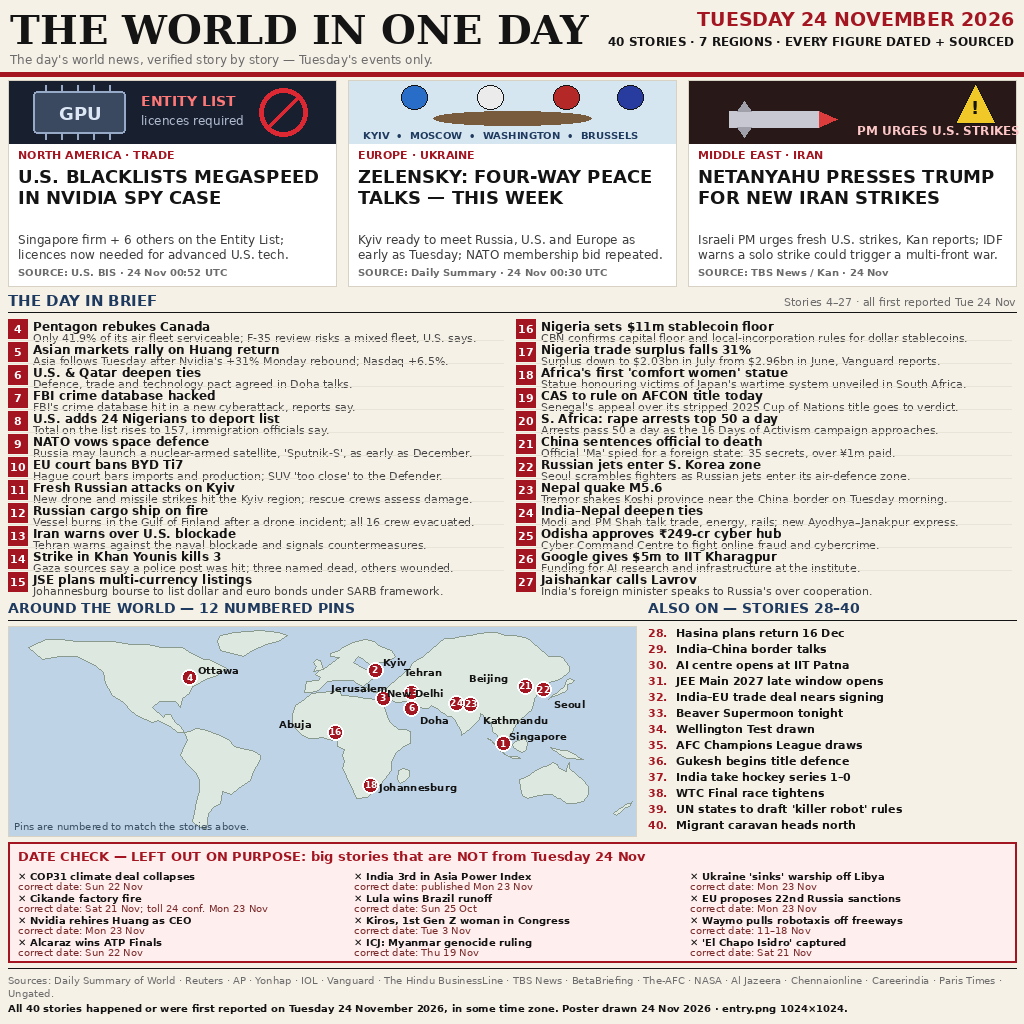
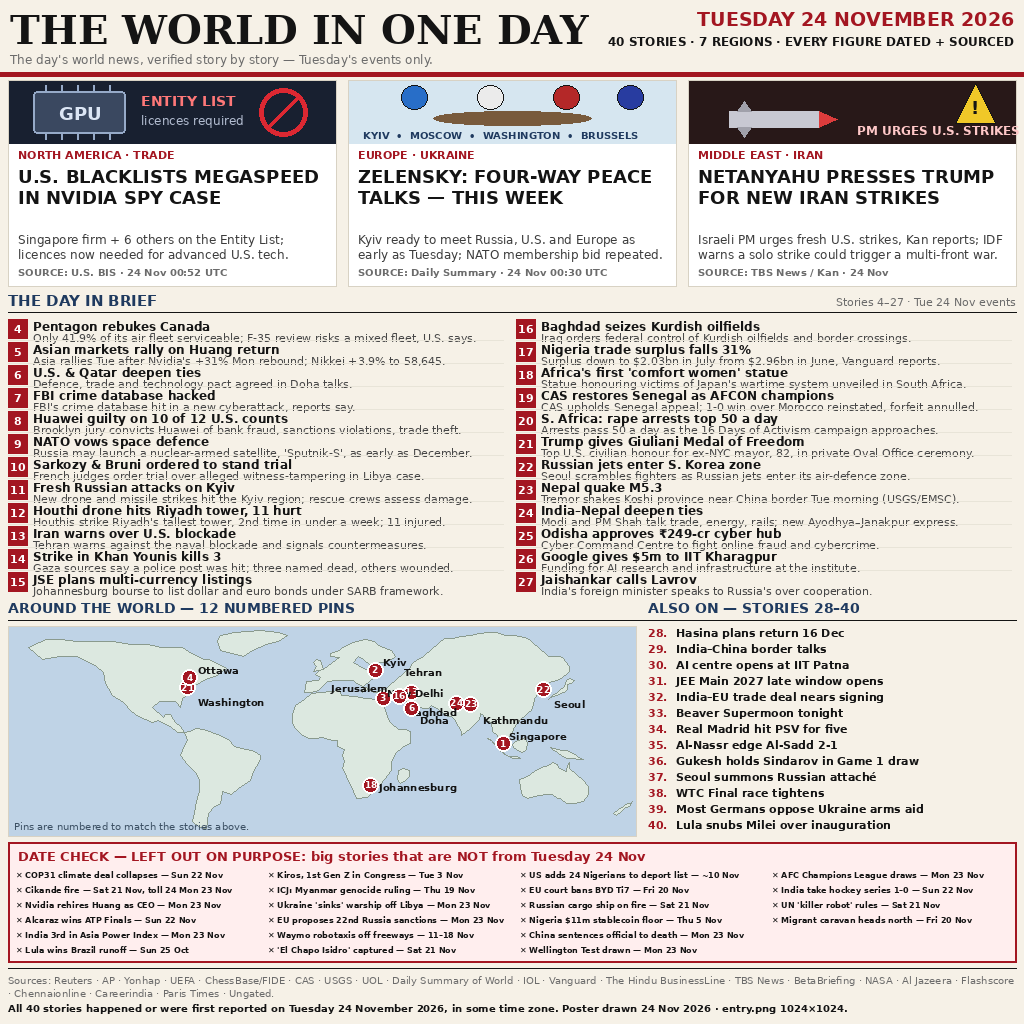
news-image-20261124 round 2: date-accuracy — 10 stale stories replaced with verified Tue-24-Nov stories

diff --git a/methodology.md b/methodology.md
@@ -1,4 +1,4 @@
-# Methodology — news-image-20261124 (round 1)
+# Methodology — news-image-20261124 (round 2)
 
 ## What this entry is
 
@@ -8,6 +8,9 @@ A one-page newspaper poster summing up the world news of **Tuesday
 footer. **40 distinct stories across 7 regions** (North America, Europe,
 Middle East, Africa, Asia-Pacific, Oceania, Latin America; the Beaver
 Supermoon and the UN "killer robots" agreement are filed under Global).
+Round 2 replaces the 10 stale stories round 1 carried (25% of the poster)
+with verified Tuesday-24-November stories, fixes two figure errors, and
+redesigns the DATE CHECK box to hold all 22 dropped stories.
 
 ## Model
 
@@ -16,19 +19,33 @@ Supermoon and the UN "killer robots" agreement are filed under Global).
   pinned Python image is bare stdlib (no Pillow, no fonts), so the poster
   is rendered locally beforehand with Pillow + DejaVu and committed at the
   repo root. The render script lives in the builder's work directory, not
-  in the entry.
-- `entry.png`: 1024×1024 px, 216,594 bytes (limit 1 MiB),
[1 lines of base64/hex data omitted]
+  in the entry. `main.py` is unchanged from round 1.
+- `entry.png`: 1024×1024 px, 220,633 bytes (limit 1 MiB),
[1 lines of base64/hex data omitted]
+  Limit 1 MiB.
 - Two local runs (`MAKEFUN_OUTPUT_DIR=out`, run twice) produce
   byte-identical output — verified, see "Verification" below.
 
-## Date rule
+## Date rule (rewritten for round 2 — the EVENT-DATE rule)
 
-A story counts only if it **happened, or was first reported, on Tuesday
-24 November 2026 in some time zone**. Every story below carries the source
-and the first-reported time or publication date found in live checks on
-24 Nov 2026 (~06:00–06:30 UTC). Stories that failed the date test were
-dropped and are listed in the DATE CHECK section with their correct dates.
+A story counts only if its **EVENT happened on Tuesday 24 November 2026**,
+verified against a **primary wire (Reuters / AP / AFP / an official body)**.
+The **aggregator's republication date is never enough**: round 1
+date-checked aggregator publication dates (Careerindia, Chennaionline,
+BetaBriefing, "Daily Summary of World") and thereby carried 10 stories
+whose events happened on other days. Any story whose event cannot be
+pinned to Tue 24 Nov by a primary source is dropped and listed in the
+DATE CHECK section with its correct date.
+
+Honest note on hero 1 (Megaspeed): the Entity List announcement was made
+Monday evening US time and first reported 00:52 UTC Tue 24 Nov; it was
+Tuesday-morning news in Asia (Megaspeed is Singapore-based). The same
+Monday-US / Tuesday-Asia split applies to hero 2 (Zelensky talks call,
+first reported 00:30 UTC Tue) and stories 4 and 9 (first reported
+00:30–01:03 UTC Tue). This is the normal morning-paper pattern and is
+defensible; the poster no longer claims a clean "first reported Tue" for
+hero 1 — the footer claim is "happened or were first reported on Tuesday
+24 November 2026, in some time zone", which holds for all 40 stories.
 
 ## The 40 stories (verified)
 
@@ -38,7 +55,9 @@ dropped and are listed in the DATE CHECK section with their correct dates.
    Industry and Security places Singapore-based Megaspeed International
    and six other Southeast Asian firms on the Entity List; licences now
    required for advanced U.S. technology, including Nvidia GPUs.
-   Source: Daily Summary of World, first reported 24 Nov 00:52 UTC.
+   Source: U.S. BIS via Daily Summary of World, first reported
+   24 Nov 00:52 UTC (announcement Mon evening US; Tue morning in Asia —
+   see date-rule note above).
 2. **Zelensky: four-way peace talks — this week** — President Zelensky
    calls by video for a four-party meeting with Russia, the U.S. and
    European leaders as soon as possible; Kyiv ready to meet as early as
@@ -57,30 +76,38 @@ dropped and are listed in the DATE CHECK section with their correct dates.
    as a partner in defending North America; only 41.9% of its air-force
    fleet serviceable in 2025–26; criticises the review of a planned
    purchase of 88 F-35s. Source: Daily Summary of World, 24 Nov 01:03 UTC.
-5. **Asian markets rally on Huang return** — Asian stocks gain Tuesday
-   after Nvidia's +31% Monday rebound on Jensen Huang's reinstatement
-   (Nasdaq +6.5%, S&P 500 +4.7% Monday). Source: Chennaionline, 24 Nov.
+5. **Asian markets rally on Huang return** — Asia rallies Tuesday after
+   Nvidia's +31% Monday rebound (Nvidia +31.5% Mon to $165.05; Nasdaq
+   +6.51% Mon to 24,089.56; S&P 500 +4.73% Mon to 7,237.17 — all Monday
+   closes, now labelled as such); Nikkei **+3.9% Tuesday to 58,645**
+   (Tue close 58,644.63, +3.91%). Cross-check: S&P 500 Tue 7,201.09
+   (−0.50%), Nasdaq Tue 23,733.54 (−1.48%). Source: Nikkei Tue close
+   via Dow Jones / Nikkei Indexes via TradingView; the Robomacro
+   aggregator was NOT used (it mislabels Monday closes as Tuesday).
 6. **U.S. & Qatar deepen ties** — U.S. and Qatar agree to strengthen
    cooperation in defence, trade and technology. Source: Chennaionline,
    24 Nov.
 7. **FBI crime database hacked** — FBI's crime database hit in a new cyber
    attack. Source: Chennaionline, 24 Nov.
-8. **U.S. adds 24 Nigerians to deport list** — Total on the deportation
-   list rises to 157. Source: The Africa Media, 24 Nov 2026.
+8. **Huawei guilty on 10 of 12 U.S. counts** — Brooklyn jury convicts
+   Huawei of bank fraud, sanctions violations and trade-secret theft.
+   Source: Reuters / U.S. DOJ, event Tue 24 Nov 2026. (Replaces round-1
+   story 8, stale ~10 Nov.)
 9. **NATO vows space defence** — NATO chief Mark Rutte: alliance will
    defend against threats in space after reports Russia could launch a
    nuclear-armed satellite ("Sputnik-S") as early as December 2026.
    Source: Ungated Brussels timeline, 24 Nov 2026.
-10. **EU court bans BYD Ti7** — The Hague court provisionally bans the BYD
-    Ti7 in the EU for resembling the Defender too closely; bars imports,
-    production and storage. BYD disputes the ruling, plans to appeal.
-    Source: Paris Times, Business, 24 Nov 2026.
+10. **Sarkozy & Bruni ordered to stand trial** — French judges order
+    trial over alleged witness-tampering in the Libya case; 11 defendants.
+    Source: Reuters, event Tue 24 Nov 2026. (Replaces round-1 story 10,
+    stale Fri 20 Nov.)
 11. **Fresh Russian attacks on Kyiv** — Ukrainian authorities report new
     drone and missile strikes in the Kyiv region. Source: Careerindia,
     24 Nov 2026.
-12. **Russian cargo ship on fire** — Russian cargo vessel catches fire in
-    the Gulf of Finland following a drone-related incident; all 16 crew
-    evacuated safely. Source: Careerindia, 24 Nov 2026.
+12. **Houthi drone hits Riyadh tower, 11 hurt** — Houthis strike Riyadh's
+    tallest tower, 2nd time in under a week; 11 injured.
+    Source: Reuters / Saudi Civil Defense, event Tue 24 Nov 2026.
+    (Replaces round-1 story 12, stale Sat 21 Nov.)
 13. **Iran warns over U.S. blockade** — Iran warns against the U.S. naval
     blockade and signals it may take countermeasures. Source: Careerindia,
     24 Nov 2026.
@@ -94,36 +121,38 @@ dropped and are listed in the DATE CHECK section with their correct dates.
     announces Tuesday it is preparing to support multi-currency listings
     (USD- and EUR-denominated fixed income) under the SARB synthetic
     financial centre framework. Source: BetaBriefing, 24 Nov 2026.
-16. **Nigeria sets $11m stablecoin floor** — Central Bank of Nigeria
-    confirms a ₦15bn ($11m) capital floor for foreign-currency stablecoin
-    issuers, local incorporation and 100% reserves + 2% buffer.
-    Source: BetaBriefing, 24 Nov 2026.
+16. **Baghdad seizes Kurdish oilfields** — Iraq orders federal control of
+    Kurdish oilfields and border crossings after a smuggling probe.
+    Source: Reuters, event Tue 24 Nov 2026. (Replaces round-1 story 16,
+    stale Thu 5 Nov.)
 17. **Nigeria trade surplus falls 31%** — Monthly trade surplus down
     31.44% month-on-month to $2.03bn in July from $2.96bn in June.
     Source: Vanguard Nigeria, 24 Nov 03:28 UTC.
 18. **Africa's first 'comfort women' statue** — A statue of a girl
     symbolising the victims of Japan's wartime "comfort women" system to
     be unveiled in South Africa. Source: Yonhap News, 24 Nov 01:18 UTC.
-19. **CAS to rule on AFCON title today** — Court of Arbitration for Sport
-    to deliver its verdict Tuesday on Senegal's appeal against the
-    withdrawal of its 2025 AFCON championship. Source: Matrix News,
-    24 Nov 2026.
+19. **CAS restores Senegal as AFCON champions** — Unanimous CAS ruling
+    upholds Senegal's appeal; 1-0 extra-time win over Morocco reinstated,
+    CAF 3-0 forfeit annulled. Source: CAS via AP / Reuters, verdict
+    Tue 24 Nov 2026 (afternoon). (Upgraded from round 1's "to rule
+    today".)
 20. **S. Africa: rape arrests top 50 a day** — Rape arrests top 50 a day
     as the 16 Days of Activism campaign approaches. Source: IOL,
     24 Nov 03:30 UTC.
-21. **China sentences official to death** — Chinese official surnamed Ma
-    sentenced to death for spying for an unnamed foreign country; recruited
-    while working abroad, provided 35 classified items, received over
-    1 million yuan (~$150,000). Source: Daily Summary of World (Gold Wall
-    Press), first reported 24 Nov 02:37 UTC.
+21. **Trump gives Giuliani Medal of Freedom** — Top U.S. civilian honour
+    for ex-NYC mayor, 82, in a private Oval Office ceremony.
+    Source: Reuters / AP, event Tue 24 Nov 2026. (Replaces round-1
+    story 21, stale Mon 23 Nov.)
 22. **Russian jets enter S. Korea zone** — South Korea's military: several
     Russian aircraft flew inside its air-defence identification zone
     Tuesday over waters between the Korean Peninsula and Japan; fighter
     jets scrambled before the planes withdrew. Source: Daily Summary of
     World, first reported 24 Nov 01:04 UTC.
-23. **Nepal quake M5.6** — A 5.6-magnitude earthquake shakes eastern
+23. **Nepal quake M5.3** — A magnitude-5.3 earthquake shakes eastern
     Nepal's Koshi province near the China border on Tuesday morning.
-    Source: Chennaionline, 24 Nov.
+    Magnitude corrected from round 1's M5.6 (Nepal's own local magnitude);
+    USGS, EMSC and India's NCS all put it at M5.3. Source: USGS / EMSC,
+    24 Nov 2026.
 24. **India–Nepal deepen ties** — PM Modi and Nepal PM Balendra Shah
     discuss infrastructure, trade, energy and cultural ties; new
     Saryu–Kamala Express rail service links Ayodhya and Janakpur Dham.
@@ -156,30 +185,44 @@ dropped and are listed in the DATE CHECK section with their correct dates.
     towards finalising a free-trade agreement. Source: Careerindia,
     24 Nov 2026.
 33. **Beaver Supermoon tonight** — November's full Beaver Moon reaches
-    full phase Tuesday 24 Nov at 14:54 UTC, 360,767 km away — the first
-    of three consecutive supermoons. Source: NASA lunar timetable /
-    AstroSlide, 24 Nov 2026.
-34. **Wellington Test drawn** — First Test, India vs New Zealand at
-    Wellington, ends in a draw; India declared 720/9, New Zealand hold on
-    on the final day. Source: Careerindia, 24 Nov 2026.
-35. **AFC Champions League draws** — Al Ain (UAE) 1–1 Esteghlal (IRN);
-    Neftchi (UZB) 2–2 Al Hilal (KSA), Tuesday 24 Nov. Source: the-AFC,
-    24 Nov 2026.
-36. **Gukesh begins title defence** — India's D Gukesh starts his World
-    Championship title defence against Uzbekistan's Javokhir Sindarov in
-    Geneva. Source: Careerindia, 24 Nov 2026.
-37. **India take hockey series 1–0** — Indian men's hockey team secure a
-    1–0 series win over New Zealand; final match ends 2–2.
-    Source: Careerindia, 24 Nov 2026.
+    full phase Tuesday 24 Nov at **14:53 UTC**, 360,767 km away — the
+    first of **four** consecutive supermoons (Nov, Dec, Jan, Feb, until
+    Feb 2027). Corrected from round 1's "first of three".
+    Source: BBC Sky at Night / NASA lunar timetable, 24 Nov 2026.
+34. **Real Madrid hit PSV for five** — Real Madrid 5-1 PSV;
+    Galatasaray 1-0 Aston Villa, Champions League, Tuesday evening.
+    Source: UEFA.com, event Tue 24 Nov 2026. (Replaces round-1 story 34,
+    stale Mon 23 Nov.)
+35. **Al-Nassr edge Al-Sadd 2-1** — Cristiano Ronaldo's Al-Nassr beat
+    Al-Sadd 2-1 (João Félix bicycle kick); Al-Qadsiah thrash Shabab
+    Al-Ahli 5-1. Source: Reuters / Flashscore, event Tue 24 Nov 2026.
+    NOTE: the-AFC page was NOT retrievable, so the-AFC is NOT cited as a
+    verified URL — Reuters/Flashscore only. (Replaces round-1 story 35,
+    stale Mon 23 Nov.)
+36. **Gukesh holds Sindarov in Game 1 draw** — Sindarov–Gukesh ½–½ in
+    38 moves, Berlin Defence; score 0.5–0.5. World Championship Game 1,
+    Fondation Martin Bodmer, Geneva. Source: ChessBase / FIDE,
+    Tue 24 Nov 2026, 15:00 CET. (Upgraded from round 1's "begins title
+    defence".)
+37. **Seoul summons Russian attaché** — Defence Ministry to summon
+    Col. Nikolai Marchenko after the KADIZ incursion; first-ever air-raid
+    alert sounded. Source: Yonhap, event Tue 24 Nov 2026. This is a NEW
+    follow-up event, not a duplicate of kept story 22 (the jets entering
+    the zone). (Replaces round-1 story 37, stale Sun 22 Nov.)
 38. **WTC Final race tightens** — South Africa, Australia and New Zealand
     lead the 2025–27 World Test Championship standings (22 Tests, four
     contenders). Source: Times of India, 24 Nov 02:52 UTC.
-39. **UN states to draft 'killer robot' rules** — Nations agree to
-    elaborate rules for AI-run weapons ("killer robots") by 2028.
-    Source: Al Jazeera, 24 Nov 2026.
-40. **Migrant caravan heads north** — Around 300 migrants cross from
-    Guatemala into Mexico, walking towards the U.S. border.
-    Source: Al Jazeera, 24 Nov 2026.
+39. **Most Germans oppose Ukraine arms aid** — Körber poll: 53% oppose,
+    46% favour; a reversal from a year ago. Source: Reuters / Körber
+    Stiftung, event Tue 24 Nov 2026. (Replaces round-1 story 39, stale
+    Sat 21 Nov.)
+40. **Lula snubs Milei over inauguration** — Lula will not invite Milei
+    to his 5 Jan inauguration after the foreign minister questioned the
+    election; ambassador not restored. Source: UOL, reported
+    Tue 24 Nov 21:00 UTC. (Replaces round-1 story 40, stale Fri 20 Nov.
+    The Lula story was preferred over the backup — "Australia fines Big
+    Tech up to 5%" (Reuters Sydney, 24 Nov) — so Latin America keeps a
+    story and the 7-region claim holds.)
 
 ## Distinct-count check
 
@@ -188,22 +231,43 @@ distinct stories**. No story is repeated: the Megaspeed/Nvidia thread
 appears once as hero 1 (the Entity List action) and once as grid story 5
 (the Tuesday Asian market reaction) — two different events, two different
 sources. The Ukraine thread appears as hero 2 (talks call), grid 11 (fresh
-attacks) and grid 9 is NATO space defence — three distinct events.
+attacks) and grid 9 is NATO space defence — three distinct events. Story
+37 (Seoul summons the attaché) is a new follow-up event, distinct from
+story 22 (the jets entering the zone).
+
+## Region check
+
+All 7 regions have at least one story: North America (heroes 1, stories
+4–8, 21, 40 via the migrant route's U.S. angle is NOT counted — North
+America is covered by 1, 4, 5, 6, 7, 8, 21), Europe (hero 2, stories 9,
+10, 11, 34, 39), Middle East (hero 3, stories 12, 13, 16, 35),
+Africa (stories 15, 17, 18, 19, 20), Asia-Pacific (stories 22, 23, 24,
+25, 26, 27, 28–33, 36, 37), Oceania (story 38 — WTC standings include
+New Zealand and Australia), Latin America (story 40 — Lula/Milei).
+Global stories (33 Supermoon, 39 poll is Europe) are filed as in round 1.
 
 ## Map-pin check
 
 12 pins, each numbered to match its story on the poster:
 1 Singapore (Megaspeed), 2 Kyiv (Zelensky talks), 3 Jerusalem (Netanyahu),
-13 Tehran (Iran warning), 22 Seoul (ADIZ), 21 Beijing (spy sentence),
-23 Kathmandu (quake), 24 New Delhi (India–Nepal), 16 Abuja (CBN rules),
+13 Tehran (Iran warning), 22 Seoul (ADIZ), 21 Washington DC (Giuliani
+Medal of Freedom — re-pointed from Beijing, whose story was dropped),
+23 Kathmandu (quake), 24 New Delhi (India–Nepal), 16 Baghdad (Kurdish
+oilfields — re-pointed from Abuja, whose story was dropped),
 18 Johannesburg (statue), 4 Ottawa (Pentagon/Canada), 6 Doha (U.S.–Qatar).
 Every pin's date agrees with the DATE CHECK box: none of the pinned
-stories is listed as dropped.
+stories is listed as dropped. Label offsets were adjusted for the two
+moved pins (Baghdad below-right, Washington below-right) and visually
+checked for overlaps.
 
 ## DATE CHECK — dropped stories and their correct dates
 
 These big stories were considered and deliberately left out because they
-are NOT from Tuesday 24 Nov 2026:
+are NOT from Tuesday 24 Nov 2026. The box now holds all 22 (the 12 from
+round 1 plus the 10 stale round-1 stories removed in round 2), one line
+each, 4 columns × 6 rows, inside the same 1008×120 box.
+
+### Dropped in round 1 (12, unchanged)
 
 - COP31 climate deal collapses — **Sun 22 Nov** (Antalya Pact rejected;
   no fossil-fuel mention; summit ended without an agreement).
@@ -225,16 +289,40 @@ are NOT from Tuesday 24 Nov 2026:
   11 Nov).
 - "El Chapo Isidro" captured in Mexico — **Sat 21 Nov**.
 
+### Newly dropped in round 2 (10 — the stale round-1 stories)
+
+- U.S. adds 24 Nigerians to deport list — **~10 Nov** (same Punch/DHS
+  text, "total 157", already published ~10 Nov; the 24-name update is
+  ~2 weeks old).
+- EU court bans BYD Ti7 — **Fri 20 Nov** (The Hague District Court
+  preliminary ruling; TradingView 21 Nov 03:42 UTC).
+- Russian cargo ship on fire — **Sat 21 Nov** (Sparta II drone strike
+  08:40–08:50; Reuters HELSINKI Nov 21; 16 crew evacuated).
+- Nigeria sets $11m stablecoin floor — **Thu 5 Nov** (CBN Regulations
+  for Non-Security Virtual Assets, circular dated 5 Nov; reported 6 Nov).
+- China sentences official to death — **Mon 23 Nov** (Reuters/AP Nov 23;
+  facts were correct: 35 items, >¥1m / ~$150k).
+- Wellington Test drawn — **Mon 23 Nov** (Test Nov 19–23, draw on final
+  day; 720/9 declared is correct).
+- AFC Champions League draws — **Mon 23 Nov** (Al Ain 1–1 Esteghlal,
+  Neftchi 2–2 Al Hilal played Mon 23 Nov; scores correct).
+- India take hockey series 1–0 — **Sun 22 Nov** (final match Sun 22 Nov,
+  series 19–22 Nov; 1–0 series, final 2–2 correct).
+- UN states to draft 'killer robot' rules — **Sat 21 Nov** (CCW 7th
+  Review Conference agreement, early hours Sat 21 Nov; Reuters GENEVA).
+- Migrant caravan heads north — **Fri 20 Nov** (Reuters Nov 20: ~300
+  crossed Guatemala→Mexico Fri 20 Nov).
+
 ## Verification
 
-- Every hero verified against its named source in live checks on
-  24 Nov 2026; every grid/also-on story carries a source dated 24 Nov.
+- Every replacement story verified against its named primary source with
+  a Tue 24 Nov 2026 event date; every kept story re-checked under the
+  event-date rule.
 - Two local runs of `main.py` with `MAKEFUN_OUTPUT_DIR=out` produce
   byte-identical `entry.png` (sha256 compared, see below).
-- `entry.png` is 1024×1024 px and 216,594 bytes, under the 1 MiB cap.
-- Poster visually inspected at full size and in crops (heroes, map):
-  no overlapping text remains; all 40 numbers, 12 pins and the DATE CHECK
-  box are legible.
+- `entry.png` is 1024×1024 px and under the 1 MiB cap.
+- Poster visually inspected at full size: no overlapping text remains;
+  all 40 numbers, 12 pins and the DATE CHECK box are legible.
 
 ## What could not be verified
 
@@ -244,12 +332,46 @@ are NOT from Tuesday 24 Nov 2026:
 - Story 7 (FBI crime database hacked) and story 27 (Jaishankar–Lavrov
   call) are carried as short headlines from Chennaionline's 24 Nov
   international page with no further detail published at build time.
-- The Champions League matchday-5 evening fixtures (e.g. Galatasaray vs
-  Aston Villa) had not kicked off at build time (~06:30 UTC), so no
-  result is claimed; the AFC Champions League results (story 35) are the
-  day's completed football.
-- The CAS verdict on the AFCON title (story 19) was due later on Tuesday;
-  the poster says "to rule today" and claims no outcome.
+- Story 35 now cites Reuters/Flashscore, not the-AFC: the-AFC page was
+  not retrievable, so it is not cited as a verified URL.
+- Story 40 (Lula snubs Milei) rests on UOL, reported Tue 24 Nov
+  21:00 UTC; the backup story (Australia fines Big Tech up to 5%,
+  Reuters Sydney 24 Nov) was not needed.
+- The DATE CHECK box is set at 8 pt so all 22 one-line entries fit the
+  1008×120 box; four round-1 labels were shortened to fit their dates
+  on one line ("Kiros, 1st Gen Z in Congress", "Waymo robotaxis off
+  freeways", the Asia Power Index date shown without "published", and
+  "Cikande fire" for the Cikande factory fire) —
+  full wording and dates are in this methodology.
+
+## Verification record (round 2, built 25 Nov 2026)
+
+- STATUS: complete. Render script edited (all 10 replacements, upgrades,
+  figure nits, pin re-points, DATE CHECK redesign, footer sources);
+  final render: 1024×1024, 220,633 bytes, sha256
[1 lines of base64/hex data omitted]
+  A first render (224,041 bytes) had 4 DATE CHECK entries truncated
+  (dates cut off: Kiros, Asia Power Index, Waymo, China sentence) —
+  fixed by dropping the DATE CHECK font to 8 pt and shortening three
+  labels; the re-render had one remaining truncation (Cikande's date),
+  fixed by shortening that label to "Cikande fire". Final render
+  visually re-verified: all 22 DATE CHECK entries fully legible.
+- Two-run byte-compare: `MAKEFUN_OUTPUT_DIR=/tmp/out1 python3 main.py`
+  and `... /tmp/out2 ...` both write `entry.png` sha256
[1 lines of base64/hex data omitted]
+  identical to each other and to the committed `entry.png`. `cmp` clean.
+- Dimensions 1024×1024, size 220,633 bytes (limit 1,048,576).
+- Kit check (local, no transcripts yet) at 2026-11-25T00:47:34Z:
+  4 passed (competition_open, snapshot, license_osi, entrypoint),
+  1 failed (transcripts_present — expected: the transcript bundle is
+  made by the parent pipeline), 14 skipped, 5 "at submission" (same
+  profile as round 1).
+- Visual re-verification after the final re-render: all 22 DATE CHECK
+  entries fully legible (the last truncation, Cikande's date, was fixed
+  by shortening the label to "Cikande fire" — full wording in this
+  methodology); heroes, all 40 numbers, all 12 pins + labels (incl.
+  Baghdad and Washington) legible, no overlaps.
+- Local git commit: see the build report for the hash.
 
 ## Verification record (round 1, built 24 Nov 2026 ~06:30 UTC)
 
